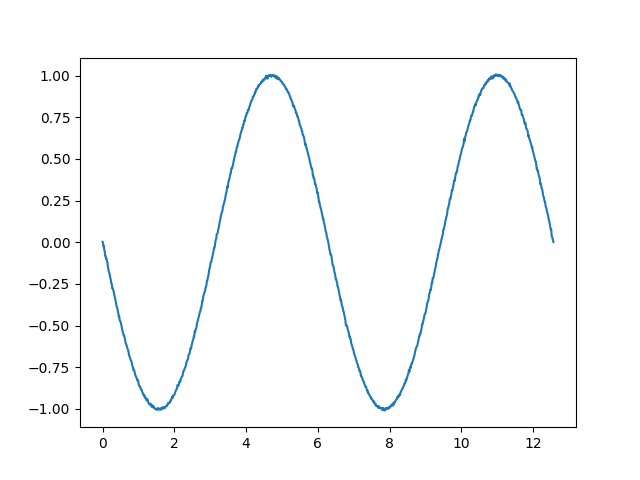
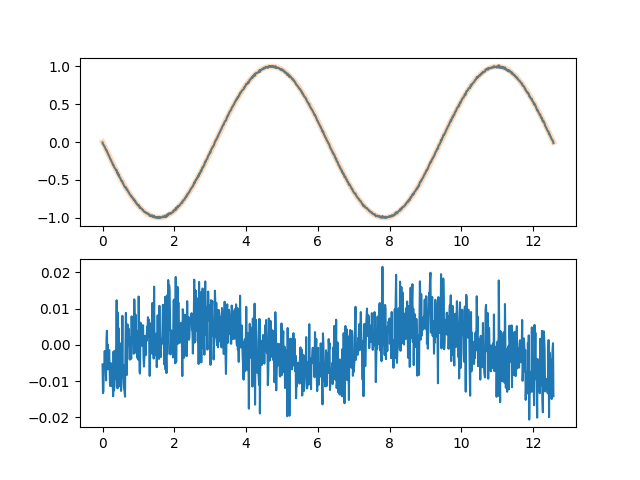
batch and minibatch

diff --git a/src/exoemulator/sandbox/mlp.py b/src/exoemulator/sandbox/mlp.py
@@ -47,7 +47,7 @@ def plot_curve(x, y, ypred=None):
     return plt
 
 
-class MlpLikePayne(nnx.Module):
+class MLP(nnx.Module):
     """simple MLP model Like the Payne
 
     Args:
@@ -57,21 +57,24 @@ class MlpLikePayne(nnx.Module):
 
     def __init__(self, *, rngs: nnx.Rngs):
         grid_length = 1024
-        self.dense_entrance = nnx.Linear(in_features=1, out_features=128, rngs=rngs)
-        self.dense = nnx.Linear(in_features=128, out_features=128, rngs=rngs)
+        nneuron = 128
+        self.dense_entrance = nnx.Linear(in_features=1, out_features=nneuron, rngs=rngs)
+        self.dense = nnx.Linear(in_features=nneuron, out_features=nneuron, rngs=rngs)
         self.dense_out = nnx.Linear(
-            in_features=128, out_features=grid_length, rngs=rngs
+            in_features=nneuron, out_features=grid_length, rngs=rngs
         )
 
     def __call__(self, input_parameter):
         x = nnx.gelu(self.dense_entrance(input_parameter))
         x = nnx.gelu(self.dense(x))
         x = nnx.gelu(self.dense(x))
+        x = nnx.gelu(self.dense(x))
+        x = nnx.gelu(self.dense(x))
         return self.dense_out(x)
         # return nnx.sigmoid(self.dense_out(x)) #limit to [0,1]
 
 
-def loss_fn(model: MlpLikePayne, batch_input_parameter, batch_label_vector):
+def loss_fn(model: MLP, batch_input_parameter, batch_label_vector):
     batch_output_vector = model(batch_input_parameter)
     loss = jnp.mean((batch_output_vector - batch_label_vector) ** 2)
     return loss, batch_output_vector
@@ -79,7 +82,7 @@ def loss_fn(model: MlpLikePayne, batch_input_parameter, batch_label_vector):
 
 @nnx.jit
 def train_step(
-    model: MlpLikePayne,
+    model: MLP,
     optimizer: nnx.Optimizer,
     metric: nnx.MultiMetric,
     batch_input_parameter,
@@ -89,47 +92,49 @@ def train_step(
     (loss, batch_output_vector), grads = grad_fn(
         model, batch_input_parameter, batch_label_vector
     )
-    #metric.update(loss=loss)
+    # metric.update(loss=loss)
     optimizer.update(grads)
 
 
 @nnx.jit
 def eval_step(
-    model: MlpLikePayne,
+    model: MLP,
     metric: nnx.MultiMetric,
     batch_input_parameter,
     batch_label_vector,
 ):
     batch_output_vector = model(batch_input_parameter)
     loss = jnp.mean((batch_output_vector - batch_label_vector) ** 2)
-    #metric.update(loss=loss)
+    # metric.update(loss=loss)
 
 
 if __name__ == "__main__":
     import jax.numpy as jnp
     import numpy as np
     import optax
+    from exoemulator.model.batch import generate_batches
 
     grid_length = 1024
-    nlabel = 100
-    input_phase = np.random.rand(nlabel) * 2 * np.pi
-
+    nsample = 512
+    input_phase = np.random.rand(nsample) * 2 * np.pi
     _x, label_sin_vector = generate_sin_curve(input_phase, 0.0, grid_length)
     input_phase = input_phase.reshape(-1, 1)
     print(input_phase.shape, label_sin_vector.shape)
 
-    model = MlpLikePayne(rngs=nnx.Rngs(0))
+    # batch
+    batch_size = 32
+    input_parameter_batches = generate_batches(input_phase, batch_size)
+    label_vector_batches = generate_batches(label_sin_vector, batch_size)
+
+    # MLP model
+    model = MLP(rngs=nnx.Rngs(0))
 
     # single input parameter
-    input_parameter = jnp.ones((1,))
-    output_vector = model(input_parameter)
-    print(input_parameter.shape, "->", output_vector.shape)
-
+    output_vector = model(input_phase[0])
+    print(input_phase[0].shape, "->", output_vector.shape)
     # batch input parameter
-    nbatch = 64
-    batch_input_parameter = jnp.ones((nbatch, 1))
-    output_vector = model(batch_input_parameter)
-    print(batch_input_parameter.shape, "->", output_vector.shape)
+    output_vector = model(input_parameter_batches[0])
+    print(input_parameter_batches[0].shape, "->", output_vector.shape)
 
     # optimizer
     learning_rate = 1e-3
@@ -140,17 +145,39 @@ if __name__ == "__main__":
     )
 
     # training
-    no_batch = True
-    if no_batch:
-        # nonbatch training 
+    batch_training = True
+    # batch_training= False
+
+    import time
+
+    start = time.time()
+    if batch_training:
+        print("batch training")
         for i in tqdm.trange(1000):
             train_step(model, optimizer, metrics, input_phase, label_sin_vector)
 
-        # single input parameter
-        input_parameter = jnp.ones((1,))*jnp.pi
-        output_vector = model(input_parameter)
-        plt.plot(_x, output_vector, "-")
-        plt.savefig("sin.png")
-        plt.show()  
     else:
-        print("")
+        print("minibatch training")
+        for i in tqdm.trange(100):
+            for istep, batch_input_parameter in enumerate(input_parameter_batches):
+                batch_label_vector = label_vector_batches[istep]
+                train_step(
+                    model, optimizer, metrics, batch_input_parameter, batch_label_vector
+                )
+
+    print("elapsed time:", time.time() - start)
+    # single input parameter
+    phase = jnp.pi
+    input_phase = jnp.ones((1,)) * phase
+    output_vector = model(input_phase)
+
+    fig = plt.figure()
+    ax = fig.add_subplot(211)
+    plt.plot(_x, output_vector, "-")
+    plt.plot(_x, jnp.sin(_x + phase), alpha=0.3, lw=4)
+
+    ax = fig.add_subplot(212)
+    plt.plot(_x, output_vector - jnp.sin(_x + phase))
+
+    plt.savefig("sin.png")
+    plt.show()
